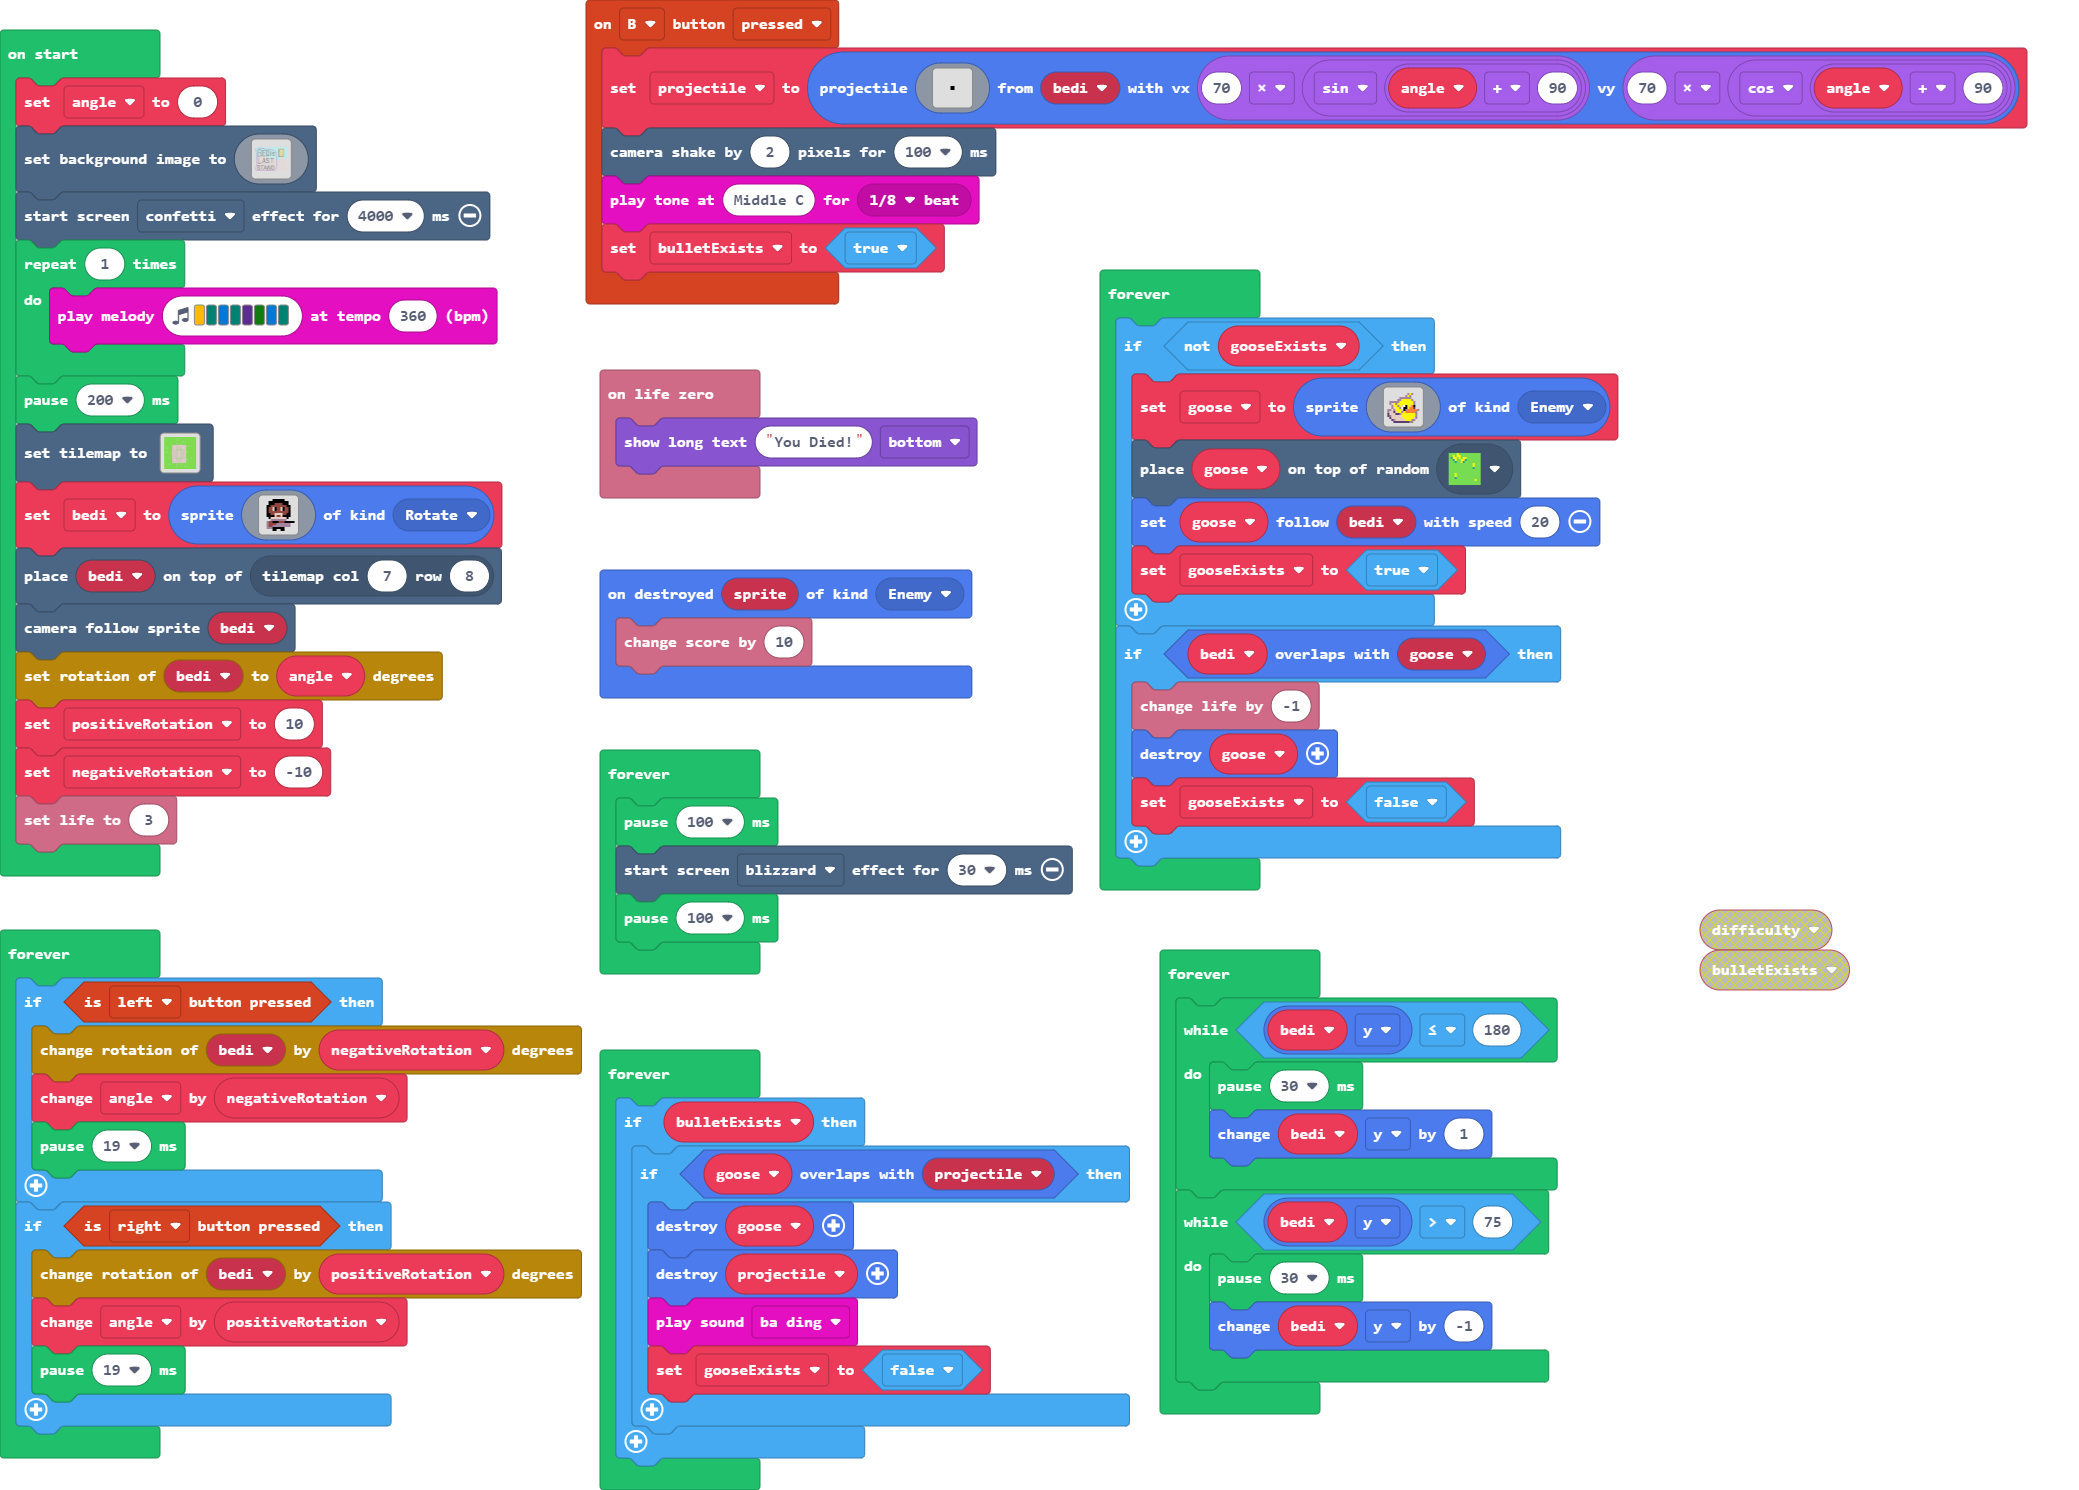
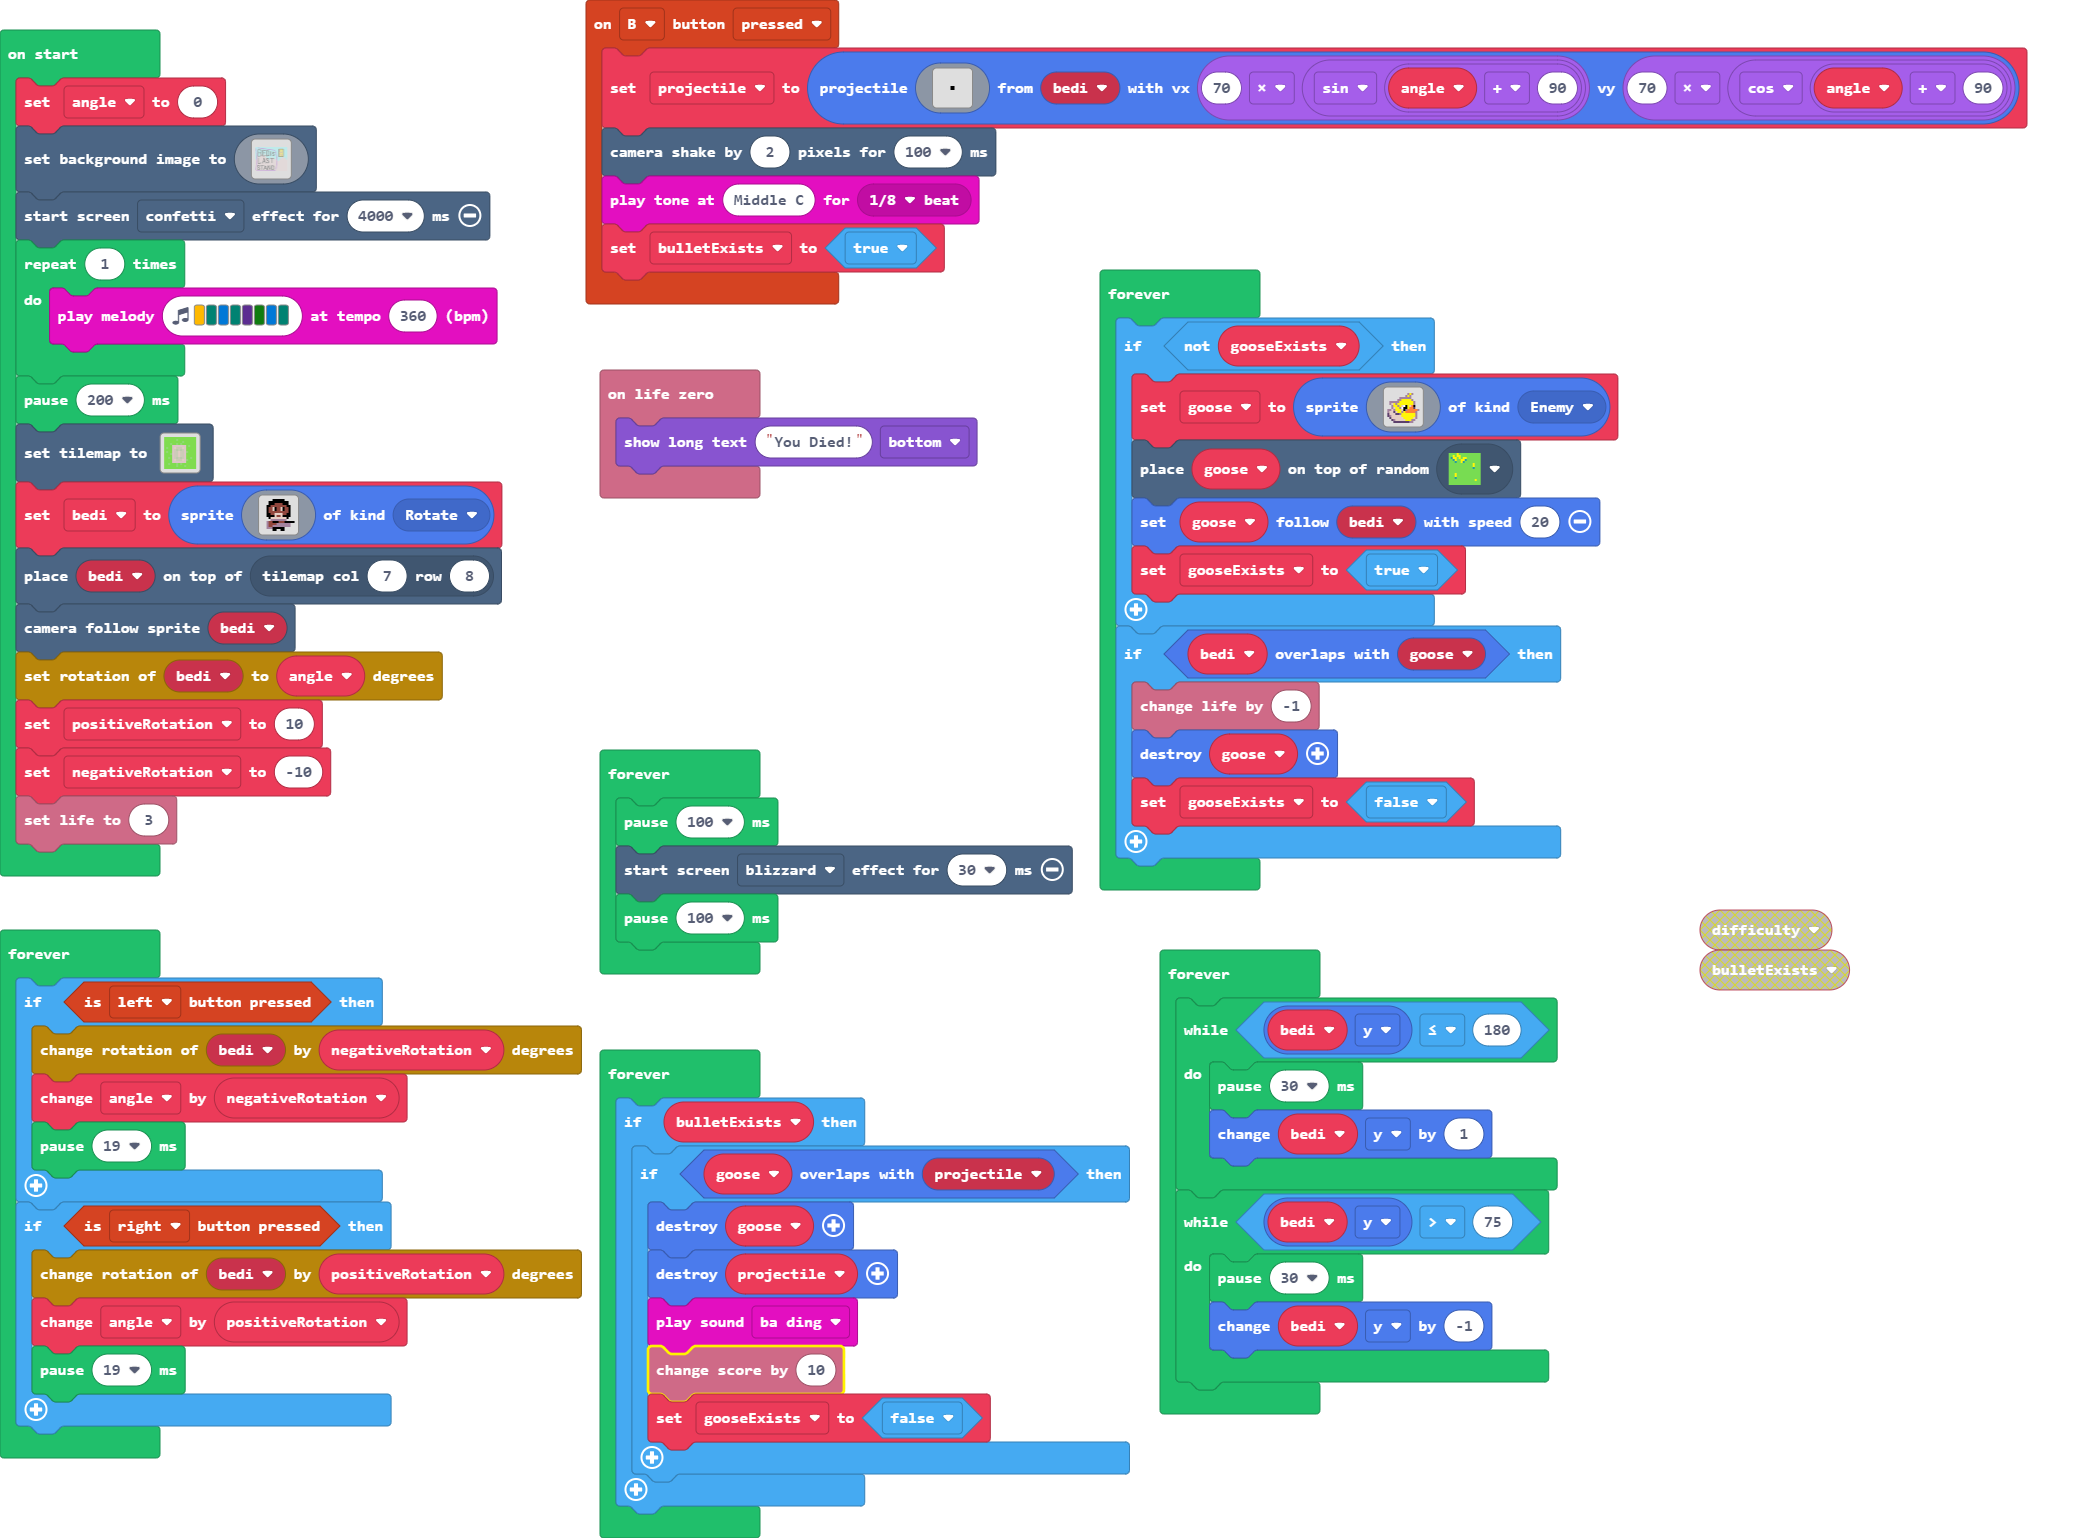
Update main.blocks, main.ts

Changed region(s): [[0.0, 0.0309, 0.8004, 0.9879], [0.2771, 0.0, 0.9851, 0.3396], [0.8004, 0.5866, 0.8927, 0.6792]]

diff --git a/main.ts b/main.ts
@@ -27,9 +27,6 @@ controller.B.onEvent(ControllerButtonEvent.Pressed, function () {
 info.onLifeZero(function () {
     game.showLongText("You Died!", DialogLayout.Bottom)
 })
-sprites.onDestroyed(SpriteKind.Enemy, function (sprite) {
-    info.changeScoreBy(10)
-})
 let goose: Sprite = null
 let gooseExists = false
 let bulletExists = false
@@ -252,6 +249,7 @@ forever(function () {
             goose.destroy()
             projectile.destroy()
             music.baDing.play()
+            info.changeScoreBy(10)
             gooseExists = false
         }
     }
